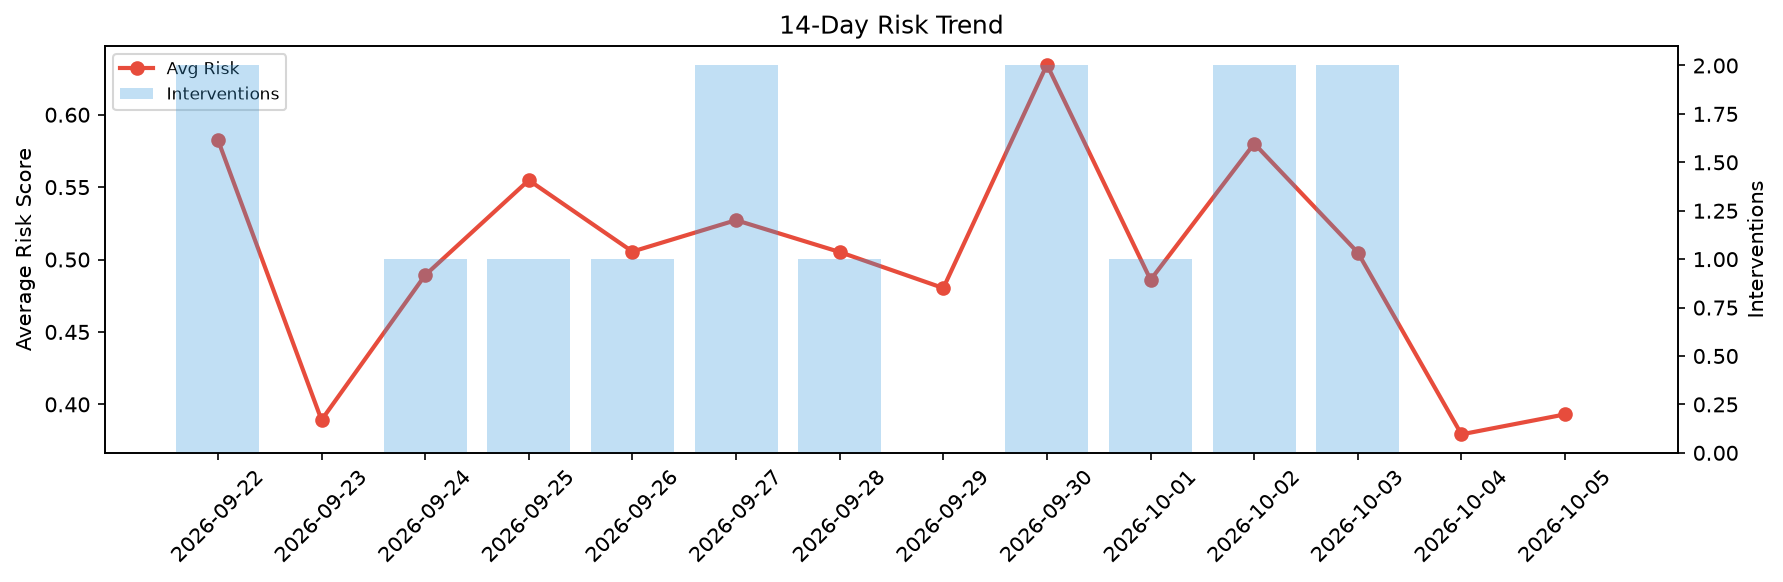
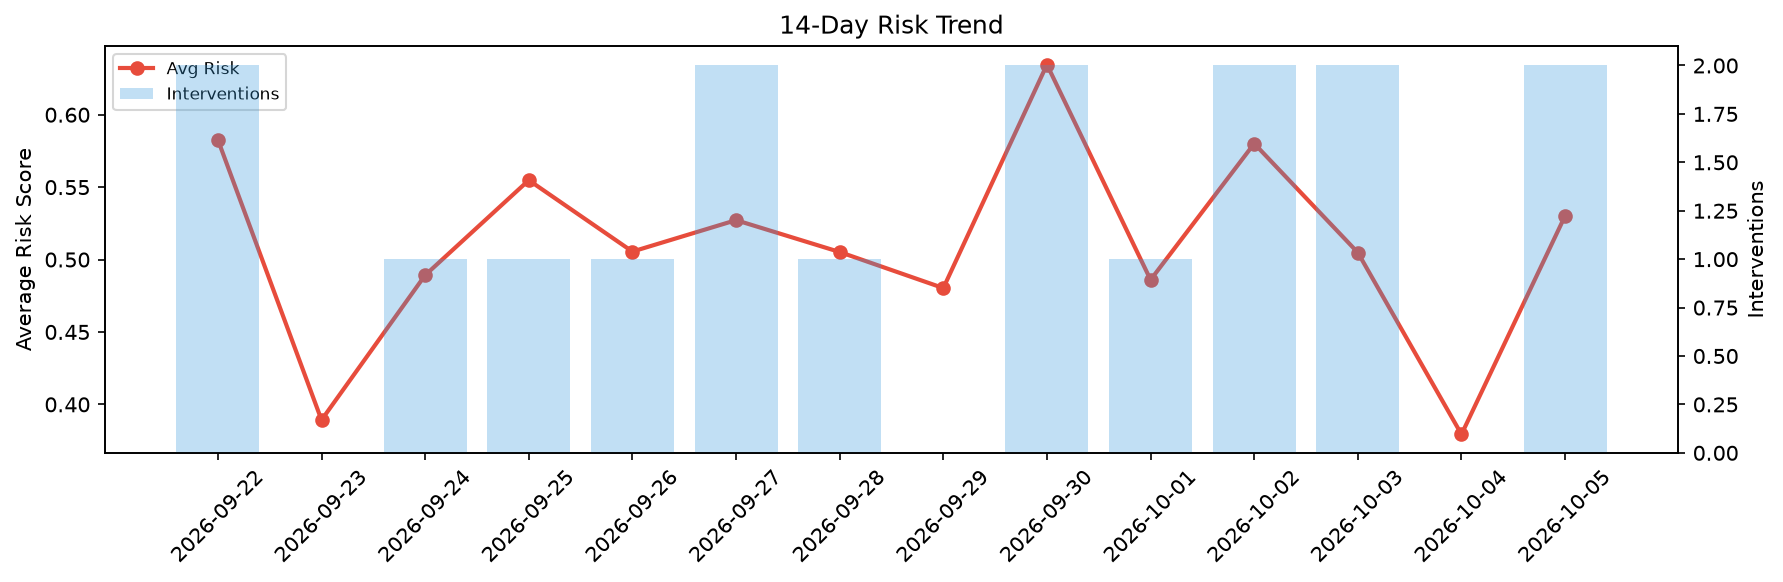
agent-improvement: daily cycle 2026-10-05T21:29

Changed region(s): [[0.802, 0.0928, 0.9254, 0.8041]]

diff --git a/logs/2026-10-05.md b/logs/2026-10-05.md
@@ -1,6 +1,6 @@
 # Agent Improvement Report — 2026-10-05
 
-**Cycle ID:** `823d2d29` | **Avg Risk:** 0.3931 | **Interventions:** 0/4
+**Cycle ID:** `9caa4bfe` | **Avg Risk:** 0.5302 | **Interventions:** 2/4
 
 ![Dashboard](2026-10-05_dashboard.png)
 
@@ -10,18 +10,18 @@
 
 | Domain | Risk Score | Decision | Alerts |
 |--------|-----------|----------|--------|
-| code_review | 0.2461 | monitor | none |
-| incident_response | 0.5351 | monitor | none |
-| data_pipeline | 0.4034 | monitor | none |
-| deployment | 0.3878 | monitor | none |
+| code_review | 0.5961 | monitor | complexity |
+| incident_response | 0.2709 | monitor | none |
+| data_pipeline | 0.615 | intervene | none |
+| deployment | 0.6389 | intervene | latency_p99 |
 
 ## Delta vs Yesterday
 
 | Domain | Today | Yesterday | Change |
 |--------|-------|-----------|--------|
-| code_review | 0.2461 | 0.5476 | 📉 -55.1% |
-| incident_response | 0.5351 | 0.3435 | 📈 55.8% |
-| data_pipeline | 0.4034 | 0.2712 | 📈 48.7% |
-| deployment | 0.3878 | 0.355 | 📈 9.2% |
+| code_review | 0.5961 | 0.5476 | 📈 8.9% |
+| incident_response | 0.2709 | 0.3435 | 📉 -21.1% |
+| data_pipeline | 0.615 | 0.2712 | 📈 126.8% |
+| deployment | 0.6389 | 0.355 | 📈 80.0% |
 
 **Refinement:** `{'adjustment': 'tighten_thresholds', 'trend': 'degrading', 'window': 4}`
